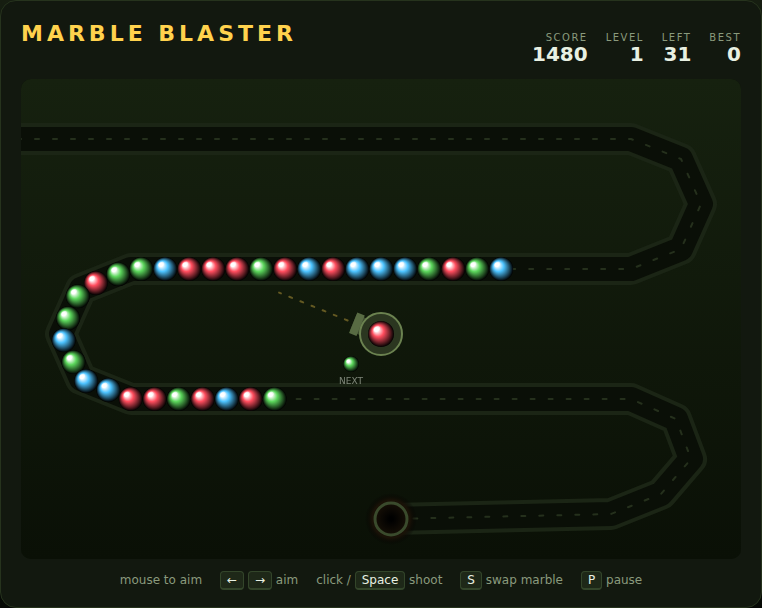
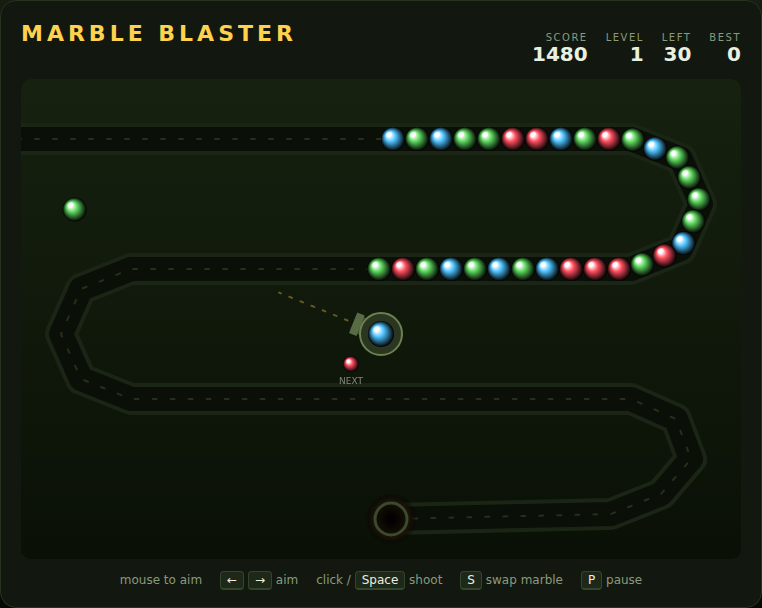
Fix chain edge cases and difficulty curve found by scripted playtests
Driving the game with scripted players surfaced three real defects:

- An insertion could shove the tail of the chain back past the track
  entrance, stacking marbles on top of each other at dist < 0. Room is now
  made backwards only as far as the entrance; once the chain is backed up
  there, the rest of the shove carries into the head instead.
- Marble count grew without bound, so from about level 15 the chain alone
  was longer than the track and the level could not be cleared however well
  it was played. Count is now capped at 45% of the track, speed at 2.4x the
  level 1 crawl, and the feed stream at 140 px/s.
- Gaps closed at a fixed speed that later levels outran, which would have
  let the chain stretch apart instead of packing. Gap closing now always
  beats the head speed.

Also: the chain feed no longer inherits the launcher's "prefer colours
already on the track" rule, which had collapsed each level to a single
colour, and aiming/firing moved to pointer events so touch works.

Tests grow to 75, covering each of the above.

Claude-Session: https://claude.ai/code/session_0185spwdm1qQFLgF5Vwy2BYX

diff --git a/MarbleBlaster/tests/marble-blaster.spec.js b/MarbleBlaster/tests/marble-blaster.spec.js
@@ -207,6 +207,22 @@ test.describe('Marble Blaster', () => {
             expect(worst).toBeLessThan(0.5);
         });
 
+        test('the chain still packs up on fast late levels', async ({ page }) => {
+            const worst = await page.evaluate(() => {
+                startGame();
+                level = 15;
+                chain.length = 0;
+                toSpawn = 20;
+                for (let i = 0; i < 60 * 20; i++) step(1 / 60);
+                let worst = 0;
+                for (let i = 1; i < chain.length; i++) {
+                    worst = Math.max(worst, Math.abs(chain[i - 1].dist - chain[i].dist - SPACING));
+                }
+                return worst;
+            });
+            expect(worst).toBeLessThan(0.5);
+        });
+
         test('a detached tail catches up to the marble in front of it', async ({ page }) => {
             const gap = await page.evaluate(() => {
                 startGame();
@@ -234,6 +250,20 @@ test.describe('Marble Blaster', () => {
                 return { streaming, crawling: chain[0].dist - b0 };
             });
             expect(r.streaming).toBeGreaterThan(r.crawling * 2);
+        });
+
+        test('the incoming stream never outruns its speed cap', async ({ page }) => {
+            const r = await page.evaluate(() => {
+                startGame();
+                toSpawn = 10;
+                level = 1;
+                const early = frontSpeed();
+                level = 40;
+                const late = frontSpeed();
+                return { early, late, cap: MAX_FEED_SPEED };
+            });
+            expect(r.early).toBeLessThanOrEqual(r.cap);
+            expect(r.late).toBeLessThanOrEqual(r.cap);
         });
 
         test('the chain moves faster on later levels', async ({ page }) => {
@@ -366,6 +396,38 @@ test.describe('Marble Blaster', () => {
             expect(n).toBe(0);
         });
 
+        test('moving the pointer over the canvas aims the launcher', async ({ page }) => {
+            await page.evaluate(() => { startGame(); setAim(-Math.PI / 2); });
+            const box = await page.locator('#canvas').boundingBox();
+            await page.mouse.move(box.x + 700, box.y + 255);
+            const a = await page.evaluate(() => aim);
+            expect(Math.abs(a)).toBeLessThan(0.2); // pointing right
+        });
+
+        test('clicking the canvas fires a marble', async ({ page }) => {
+            await page.evaluate(() => {
+                startGame();
+                chain.length = 0;
+                toSpawn = 0;
+                projectiles.length = 0;
+            });
+            const box = await page.locator('#canvas').boundingBox();
+            await page.mouse.click(box.x + 360, box.y + 40);
+            expect(await page.evaluate(() => projectiles.length)).toBeGreaterThan(0);
+        });
+
+        test('S swaps the loaded marble', async ({ page }) => {
+            await page.evaluate(() => {
+                startGame();
+                currentColor = COLORS[0];
+                nextColor = COLORS[3];
+            });
+            await page.keyboard.press('KeyS');
+            const r = await page.evaluate(() => ({ currentColor, nextColor, palette: COLORS }));
+            expect(r.currentColor).toBe(r.palette[3]);
+            expect(r.nextColor).toBe(r.palette[0]);
+        });
+
         test('swapping exchanges the current and next marbles', async ({ page }) => {
             const r = await page.evaluate(() => {
                 startGame();
@@ -430,6 +492,33 @@ test.describe('Marble Blaster', () => {
             });
             expect(r.tailAfter).toBeCloseTo(r.tailBefore - 24, 3);
             expect(r.inserted).toBeCloseTo(r.tailBefore, 3);
+        });
+
+        test('an insertion never pushes a marble back past the entrance', async ({ page }) => {
+            const minDist = await page.evaluate(() => {
+                startGame();
+                chain.length = 0;
+                toSpawn = 0;
+                // chain packed right up against the entrance
+                for (let i = 0; i < 5; i++) addMarble(i % 3, SPACING * (4 - i));
+                insertMarble(3, COLORS[4]);
+                return Math.min(...chain.map((m) => m.dist));
+            });
+            expect(minDist).toBeGreaterThanOrEqual(0);
+        });
+
+        test('with no room behind, an insertion drives the head forward', async ({ page }) => {
+            const r = await page.evaluate(() => {
+                startGame();
+                chain.length = 0;
+                toSpawn = 0;
+                for (let i = 0; i < 4; i++) addMarble(i % 3, SPACING * (3 - i)); // tail sits at 0
+                const headBefore = chain[0].dist;
+                insertMarble(2, COLORS[4]);
+                return { headBefore, headAfter: chain[0].dist, tail: chain[chain.length - 1].dist };
+            });
+            expect(r.headAfter).toBeCloseTo(r.headBefore + 24, 3);
+            expect(r.tail).toBeCloseTo(0, 3);
         });
 
         test('the chain stays ordered front-to-back after an insertion', async ({ page }) => {
@@ -594,6 +683,28 @@ test.describe('Marble Blaster', () => {
         test('later levels send more marbles', async ({ page }) => {
             const r = await page.evaluate(() => ({ l1: marblesForLevel(1), l5: marblesForLevel(5) }));
             expect(r.l5).toBeGreaterThan(r.l1);
+        });
+
+        test('a level never sends more chain than the track can hold', async ({ page }) => {
+            const r = await page.evaluate(() => ({
+                longest: marblesForLevel(99) * SPACING,
+                track: pathLength(),
+            }));
+            expect(r.longest).toBeLessThan(r.track * 0.75);
+        });
+
+        test('the chain speed stops climbing once it hits its cap', async ({ page }) => {
+            const r = await page.evaluate(() => {
+                startGame();
+                level = 12;
+                const a = chainSpeed();
+                level = 60;
+                const b = chainSpeed();
+                level = 1;
+                return { a, b, base: chainSpeed() };
+            });
+            expect(r.b).toBe(r.a);
+            expect(r.a).toBeGreaterThan(r.base);
         });
 
         test('later levels use more colours, capped at the palette size', async ({ page }) => {

diff --git a/MarbleBlaster/game.js b/MarbleBlaster/game.js
@@ -9,11 +9,15 @@ const CANVAS_H = 480;
 const MARBLE_R = 12;          // marble radius
 const SPACING = 24;           // centre-to-centre distance of packed marbles
 const BASE_SPEED = 26;        // chain crawl speed (px/s) on level 1
-const SPEED_PER_LEVEL = 0.18; // fraction added per extra level
+const SPEED_PER_LEVEL = 0.15; // fraction added per extra level
+const MAX_SPEED_SCALE = 2.4;  // ...up to this much of the level 1 crawl
+const MARBLES_PER_LEVEL = 4;  // extra marbles each level sends
+const MAX_TRACK_FILL = 0.45;  // a level never sends more chain than this much track
 const FEED_MULTIPLIER = 4;    // marbles still queued push the chain along faster
-const PULL_SPEED = 260;       // px/s a detached tail closes a gap at
+const MAX_FEED_SPEED = 140;   // ...but the stream never outruns the eye (px/s)
+const PULL_SPEED = 260;       // px/s a detached tail closes a gap at (floor)
 const SHOT_SPEED = 620;       // px/s a fired marble travels
-const RELOAD = 0.35;          // seconds between shots
+const RELOAD = 0.30;          // seconds between shots
 const AIM_SPEED = 2.4;        // radians/s when swinging with the arrow keys
 const DANGER_ZONE = 220;      // distance from the pit that counts as danger
 const LEVEL_BONUS = 250;      // per-level bonus for clearing every marble
@@ -109,8 +113,12 @@ function pointAt(dist) {
 // Level shape
 // ---------------------------------------------------------------------------
 
+// Levels send more marbles, but never so many that the chain alone would fill
+// the track - past that point a level would be unwinnable however well it is
+// played, so the difficulty rides on speed and colour count instead.
 function marblesForLevel(l) {
-    return 30 + (l - 1) * 6;
+    const cap = Math.floor((pathLength() * MAX_TRACK_FILL) / SPACING);
+    return Math.min(cap, 30 + (l - 1) * MARBLES_PER_LEVEL);
 }
 
 function colorsForLevel(l) {
@@ -118,13 +126,21 @@ function colorsForLevel(l) {
 }
 
 function chainSpeed() {
-    return BASE_SPEED * (1 + SPEED_PER_LEVEL * (level - 1));
+    return BASE_SPEED * Math.min(MAX_SPEED_SCALE, 1 + SPEED_PER_LEVEL * (level - 1));
 }
 
 // While marbles are still queued they stream out under pressure, so the whole
 // chain runs fast; once the queue is empty it settles into its slow crawl.
 function frontSpeed() {
-    return chainSpeed() * (toSpawn > 0 ? FEED_MULTIPLIER : 1);
+    const crawl = chainSpeed();
+    if (toSpawn <= 0) return crawl;
+    return Math.max(crawl, Math.min(MAX_FEED_SPEED, crawl * FEED_MULTIPLIER));
+}
+
+// A gap must always close faster than the head runs away, or the chain would
+// stretch out instead of packing once the later levels get quick.
+function pullSpeed() {
+    return Math.max(PULL_SPEED, frontSpeed() * 1.6);
 }
 
 function activeColors() {
@@ -163,7 +179,7 @@ function advanceChain(dt) {
         const target = chain[i - 1].dist - SPACING;
         chain[i].dist = chain[i].dist > target
             ? target
-            : Math.min(target, chain[i].dist + PULL_SPEED * dt);
+            : Math.min(target, chain[i].dist + pullSpeed() * dt);
     }
 }
 
@@ -291,8 +307,14 @@ function insertMarble(index, color) {
     if (k === 0) {
         dist = chain[0].dist + SPACING;
     } else {
+        // Make room by shoving the tail back - but only as far as the entrance.
+        // Once the track behind is full the rest of the shove drives the head
+        // forward instead, so no marble is ever pushed off the back.
+        const room = Math.min(SPACING, Math.max(0, chain[chain.length - 1].dist));
+        const forward = SPACING - room;
+        for (let j = k; j < chain.length; j++) chain[j].dist -= room;
+        for (let j = 0; j < k; j++) chain[j].dist += forward;
         dist = chain[k - 1].dist - SPACING;
-        for (let j = k; j < chain.length; j++) chain[j].dist -= SPACING;
     }
     chain.splice(k, 0, { color, dist });
     resolveMatches(k);
@@ -635,15 +657,24 @@ window.addEventListener('keyup', (e) => {
     keys[e.key] = false;
 });
 
-canvas.addEventListener('mousemove', (e) => {
-    const rect = canvas.getBoundingClientRect();
-    const x = ((e.clientX - rect.left) / rect.width) * CANVAS_W;
-    const y = ((e.clientY - rect.top) / rect.height) * CANVAS_H;
-    aimAt(x, y);
+window.addEventListener('blur', () => {
+    for (const k of Object.keys(keys)) keys[k] = false;
 });
 
-canvas.addEventListener('mousedown', (e) => {
+// Pointer events cover mouse, touch and pen with one code path.
+function pointerAim(e) {
+    const rect = canvas.getBoundingClientRect();
+    aimAt(
+        ((e.clientX - rect.left) / rect.width) * CANVAS_W,
+        ((e.clientY - rect.top) / rect.height) * CANVAS_H,
+    );
+}
+
+canvas.addEventListener('pointermove', pointerAim);
+
+canvas.addEventListener('pointerdown', (e) => {
     e.preventDefault();
+    pointerAim(e);
     if (state === 'running' && !paused) fire();
 });
 

diff --git a/MarbleBlaster/DESIGN.md b/MarbleBlaster/DESIGN.md
@@ -53,7 +53,8 @@ has cleared the entrance by a full diameter, so marbles never overlap.
 ### Shooting
 
 The launcher holds a current marble and a next marble, and can be aimed in any
-direction (mouse, or the arrow keys). `fire()` launches the current marble at
+direction — by pointer (`pointermove`/`pointerdown` covers mouse, touch and pen
+in one path) or with the arrow keys. `fire()` launches the current marble at
 `SHOT_SPEED`, promotes the next one, and starts a `RELOAD` cooldown. A shot in
 flight is advanced in sub-steps of at most half a marble radius so a fast marble
 cannot tunnel through the chain.
@@ -66,11 +67,15 @@ entering the track are drawn freely from the level palette.
 
 When a shot overlaps a chain marble, the marble it hit decides where it lands:
 the game compares the shot's position against the points half a spacing in
-front of and behind that marble, and inserts on the closer side. Inserting at
-index `k > 0` shoves everything from `k` back by one spacing (the tail then
-closes up at `PULL_SPEED`); inserting at the very front pushes the new marble
-one spacing ahead instead — unless there is no track left in front, in which
-case it tucks in behind so a shot can never itself push a marble into the pit.
+front of and behind that marble, and inserts on the closer side.
+
+Making room is where the edges live. Inserting at index `k > 0` shoves
+everything from `k` backwards by one spacing (the tail then closes up again at
+`pullSpeed()`) — but only as far as the track entrance, since a marble pushed
+past it would have nowhere to be. When the chain is already backed up to the
+entrance, whatever is left of the shove drives the head forward instead.
+Inserting at the very front pushes the new marble one spacing ahead; if there is
+no track left in front of the head, it tucks in behind instead.
 
 ### Matching
 
@@ -84,17 +89,34 @@ than two separate matches.
 ### Levels and losing
 
 A level ends when the queue is empty and the chain is clear: the player banks
-`250 × level`, and the next level sends 6 more marbles, moves ~18% faster, and
-adds a colour every second level (capped at the six-colour palette). The game
-ends the moment the lead marble reaches the end of the track. The last stretch
-before the pit is flagged as danger, which throbs the pit and the border.
+`250 × level`, and the next level sends 4 more marbles, moves 15% faster, and
+adds a colour every second level. The game ends the moment the lead marble
+reaches the end of the track. The last stretch before the pit is flagged as
+danger, which throbs the pit and the border.
+
+Every one of those ramps is capped, because each is unbounded on its own and
+each becomes unfair at a different threshold:
+
+- **Marble count** (`MAX_TRACK_FILL`) — a level never queues more chain than 45%
+  of the track. Without this, around level 15 the chain alone is longer than the
+  track, so the level cannot be cleared however well it is played. A scripted
+  playtest starting at level 15 found exactly this.
+- **Crawl speed** (`MAX_SPEED_SCALE`) — tops out at 2.4× the level 1 crawl.
+- **Stream speed** (`MAX_FEED_SPEED`) — the fast feed phase is capped at
+  140 px/s, so a late level opens quickly but still readably.
+- **Gap closing** (`pullSpeed()`) — always at least 1.6× the head speed, or the
+  chain would stretch instead of packing once the head gets quick.
+
+Difficulty past those caps rides on colour count, which is what actually makes
+matches scarce. With near-optimal scripted play the run reaches around level 7
+in about three minutes; ordinary play clears two or three levels.
 
 ## Controls
 
 | Input | Action |
 |---|---|
-| Mouse move | Aim the launcher |
-| Click / `Space` | Fire |
+| Pointer move (mouse or touch) | Aim the launcher |
+| Click / tap / `Space` | Fire |
 | `←` `→` | Swing the aim |
 | `S` | Swap the current and next marble |
 | `P` | Pause / resume |
@@ -107,7 +129,7 @@ before the pit is flagged as danger, which throbs the pit and the border.
 | `index.html` | HUD, canvas, overlay, help bar |
 | `style.css` | Presentation only — no layout logic in JS |
 | `game.js` | Constants, path maths, chain, shooting, matching, flow, rendering, input |
-| `tests/marble-blaster.spec.js` | 66 Playwright specs |
+| `tests/marble-blaster.spec.js` | 75 Playwright specs |
 
 `game.js` keeps every piece of state and every rule in plain top-level
 functions (`step`, `insertMarble`, `resolveMatches`, `pointAt`, …). Rendering
@@ -133,9 +155,11 @@ reading.
   marbles facing each other, the follow-up match fires immediately rather than
   waiting for the gap to physically close. Same outcome, far simpler to reason
   about and to test.
-- **Insertion pushes backwards.** A shot landing mid-chain shoves the marbles
-  behind it back rather than driving the front of the chain toward the pit, so a
-  shot can never directly cause a loss.
+- **Insertion pushes backwards where it can.** A shot landing mid-chain shoves
+  the marbles behind it back rather than driving the head toward the pit, so a
+  shot normally cannot cost the run. The exception is a chain already backed up
+  to the entrance, where there is nowhere left to push: then the shove carries
+  into the head, and a badly-timed shot on a full track can end it.
 - **No lives and no power-ups.** One track, one chain, and the run ends when a
   marble reaches the pit. Levels are endless rather than a fixed campaign.
 - **Colour count over difficulty curve.** Levels grow by marble count, speed and

diff --git a/MarbleBlaster/README.md b/MarbleBlaster/README.md
@@ -15,8 +15,8 @@ Game**) to begin.
 
 | Input | Action |
 |---|---|
-| Mouse move | Aim the launcher |
-| Click / Space | Fire the loaded marble |
+| Pointer move (mouse or touch) | Aim the launcher |
+| Click / tap / Space | Fire the loaded marble |
 | ← / → | Swing the aim |
 | S | Swap the loaded marble with the next one |
 | P | Pause / resume |
